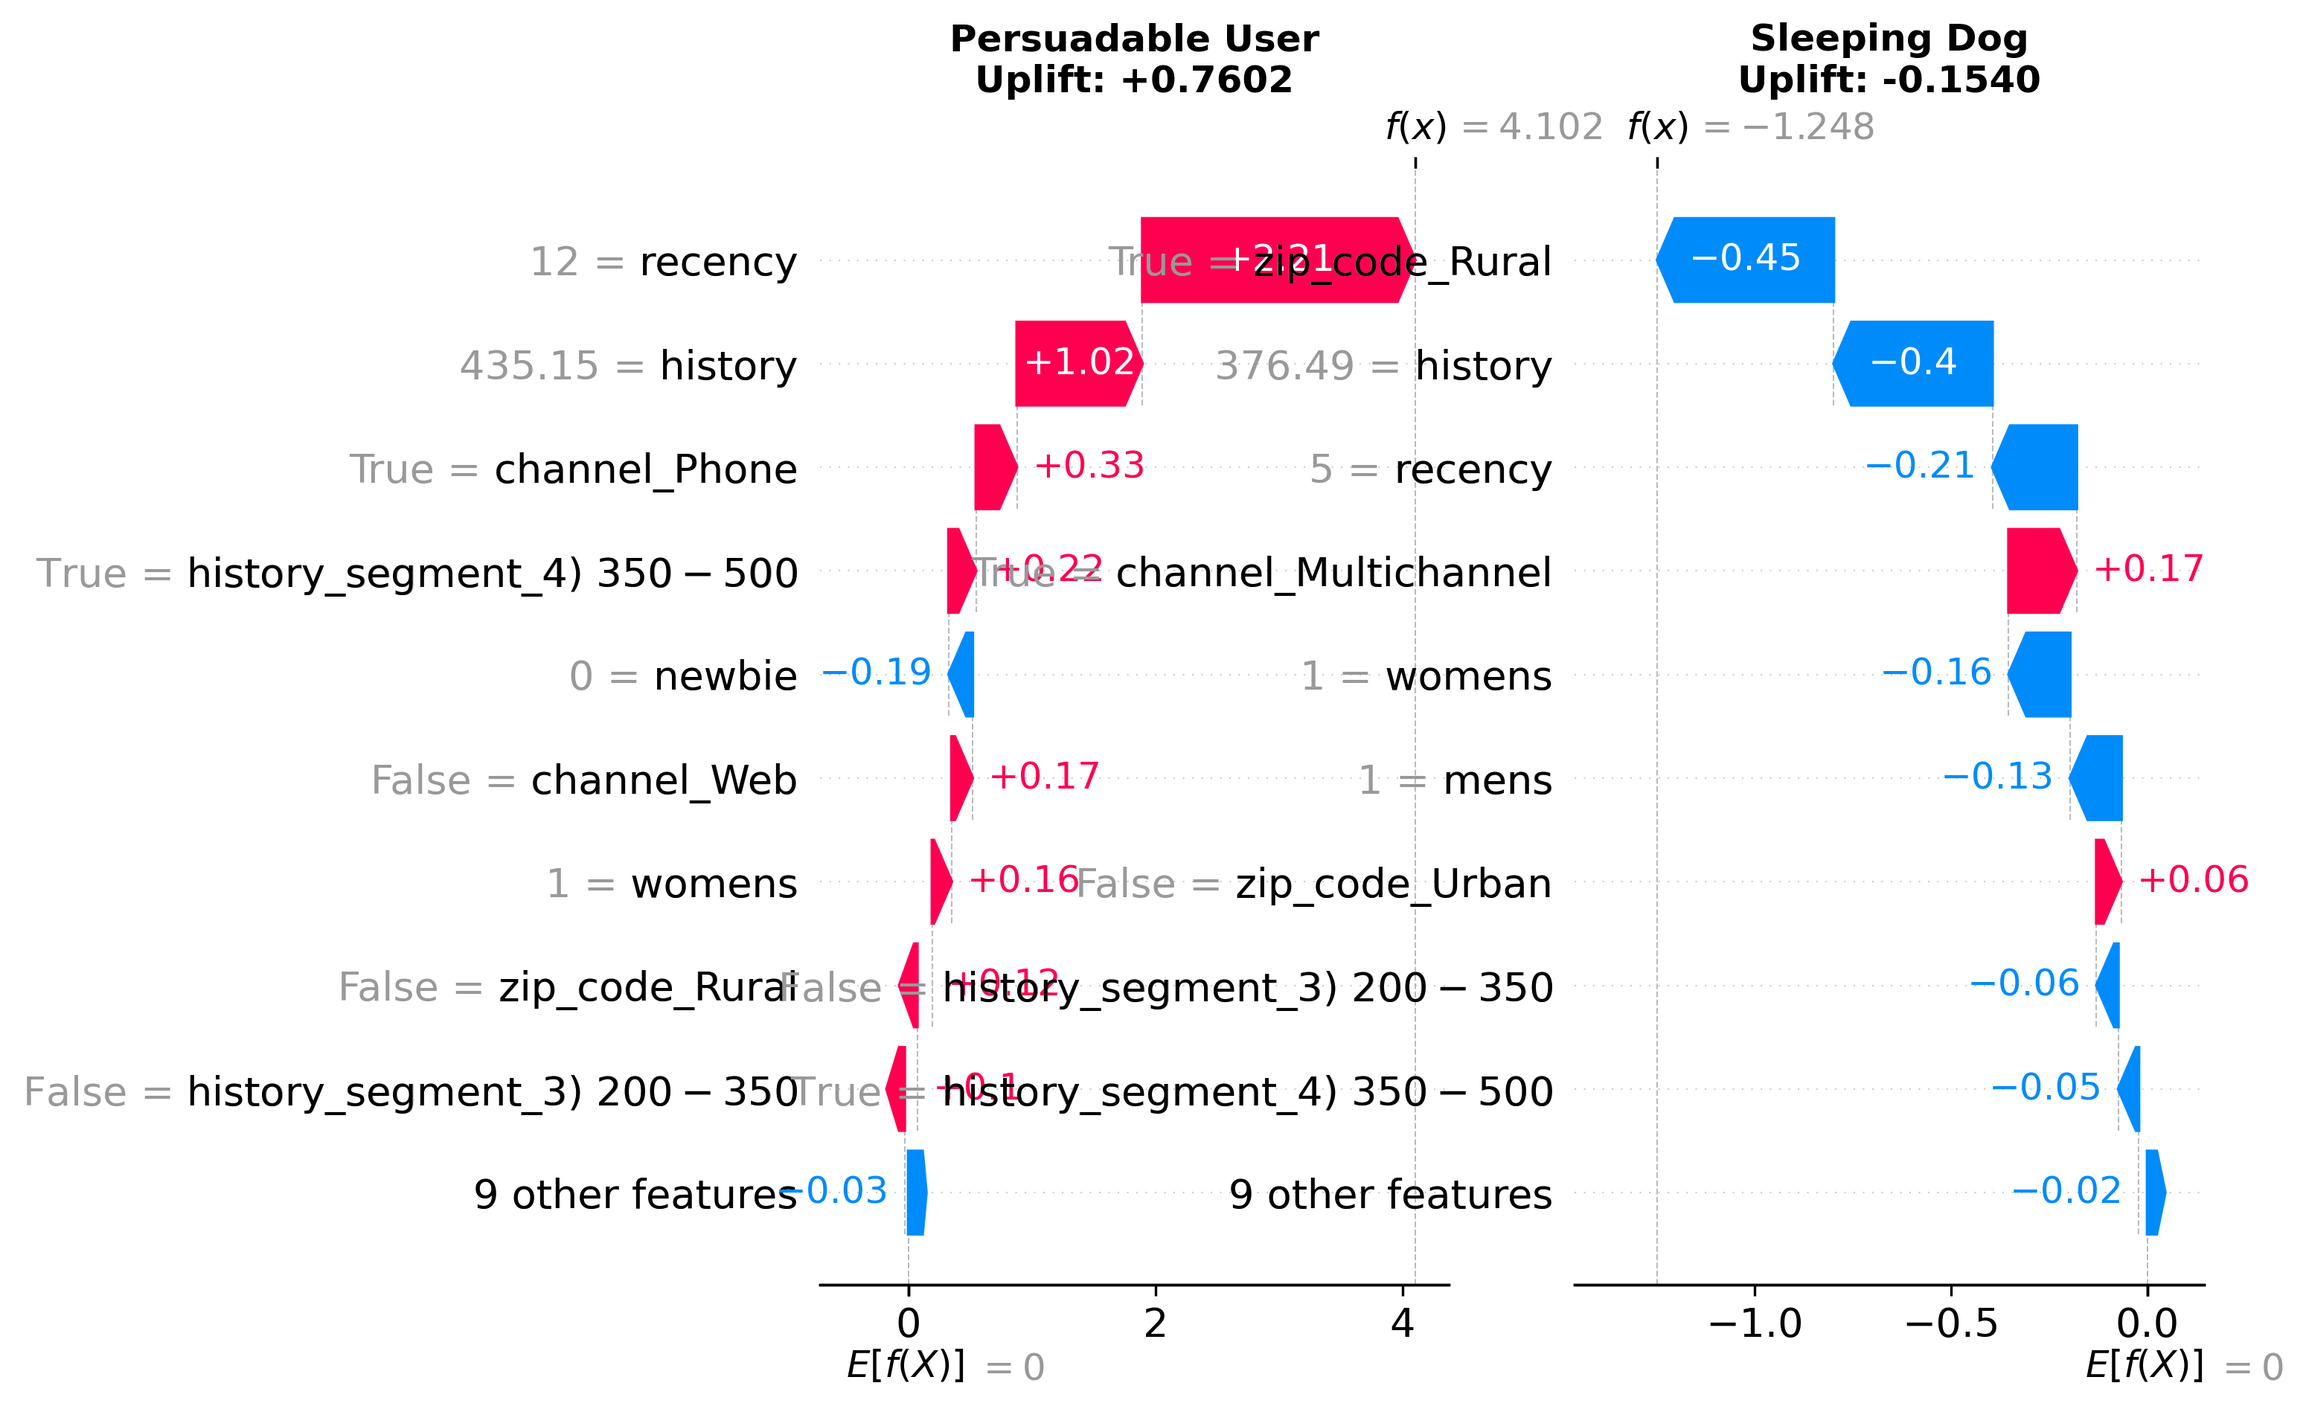
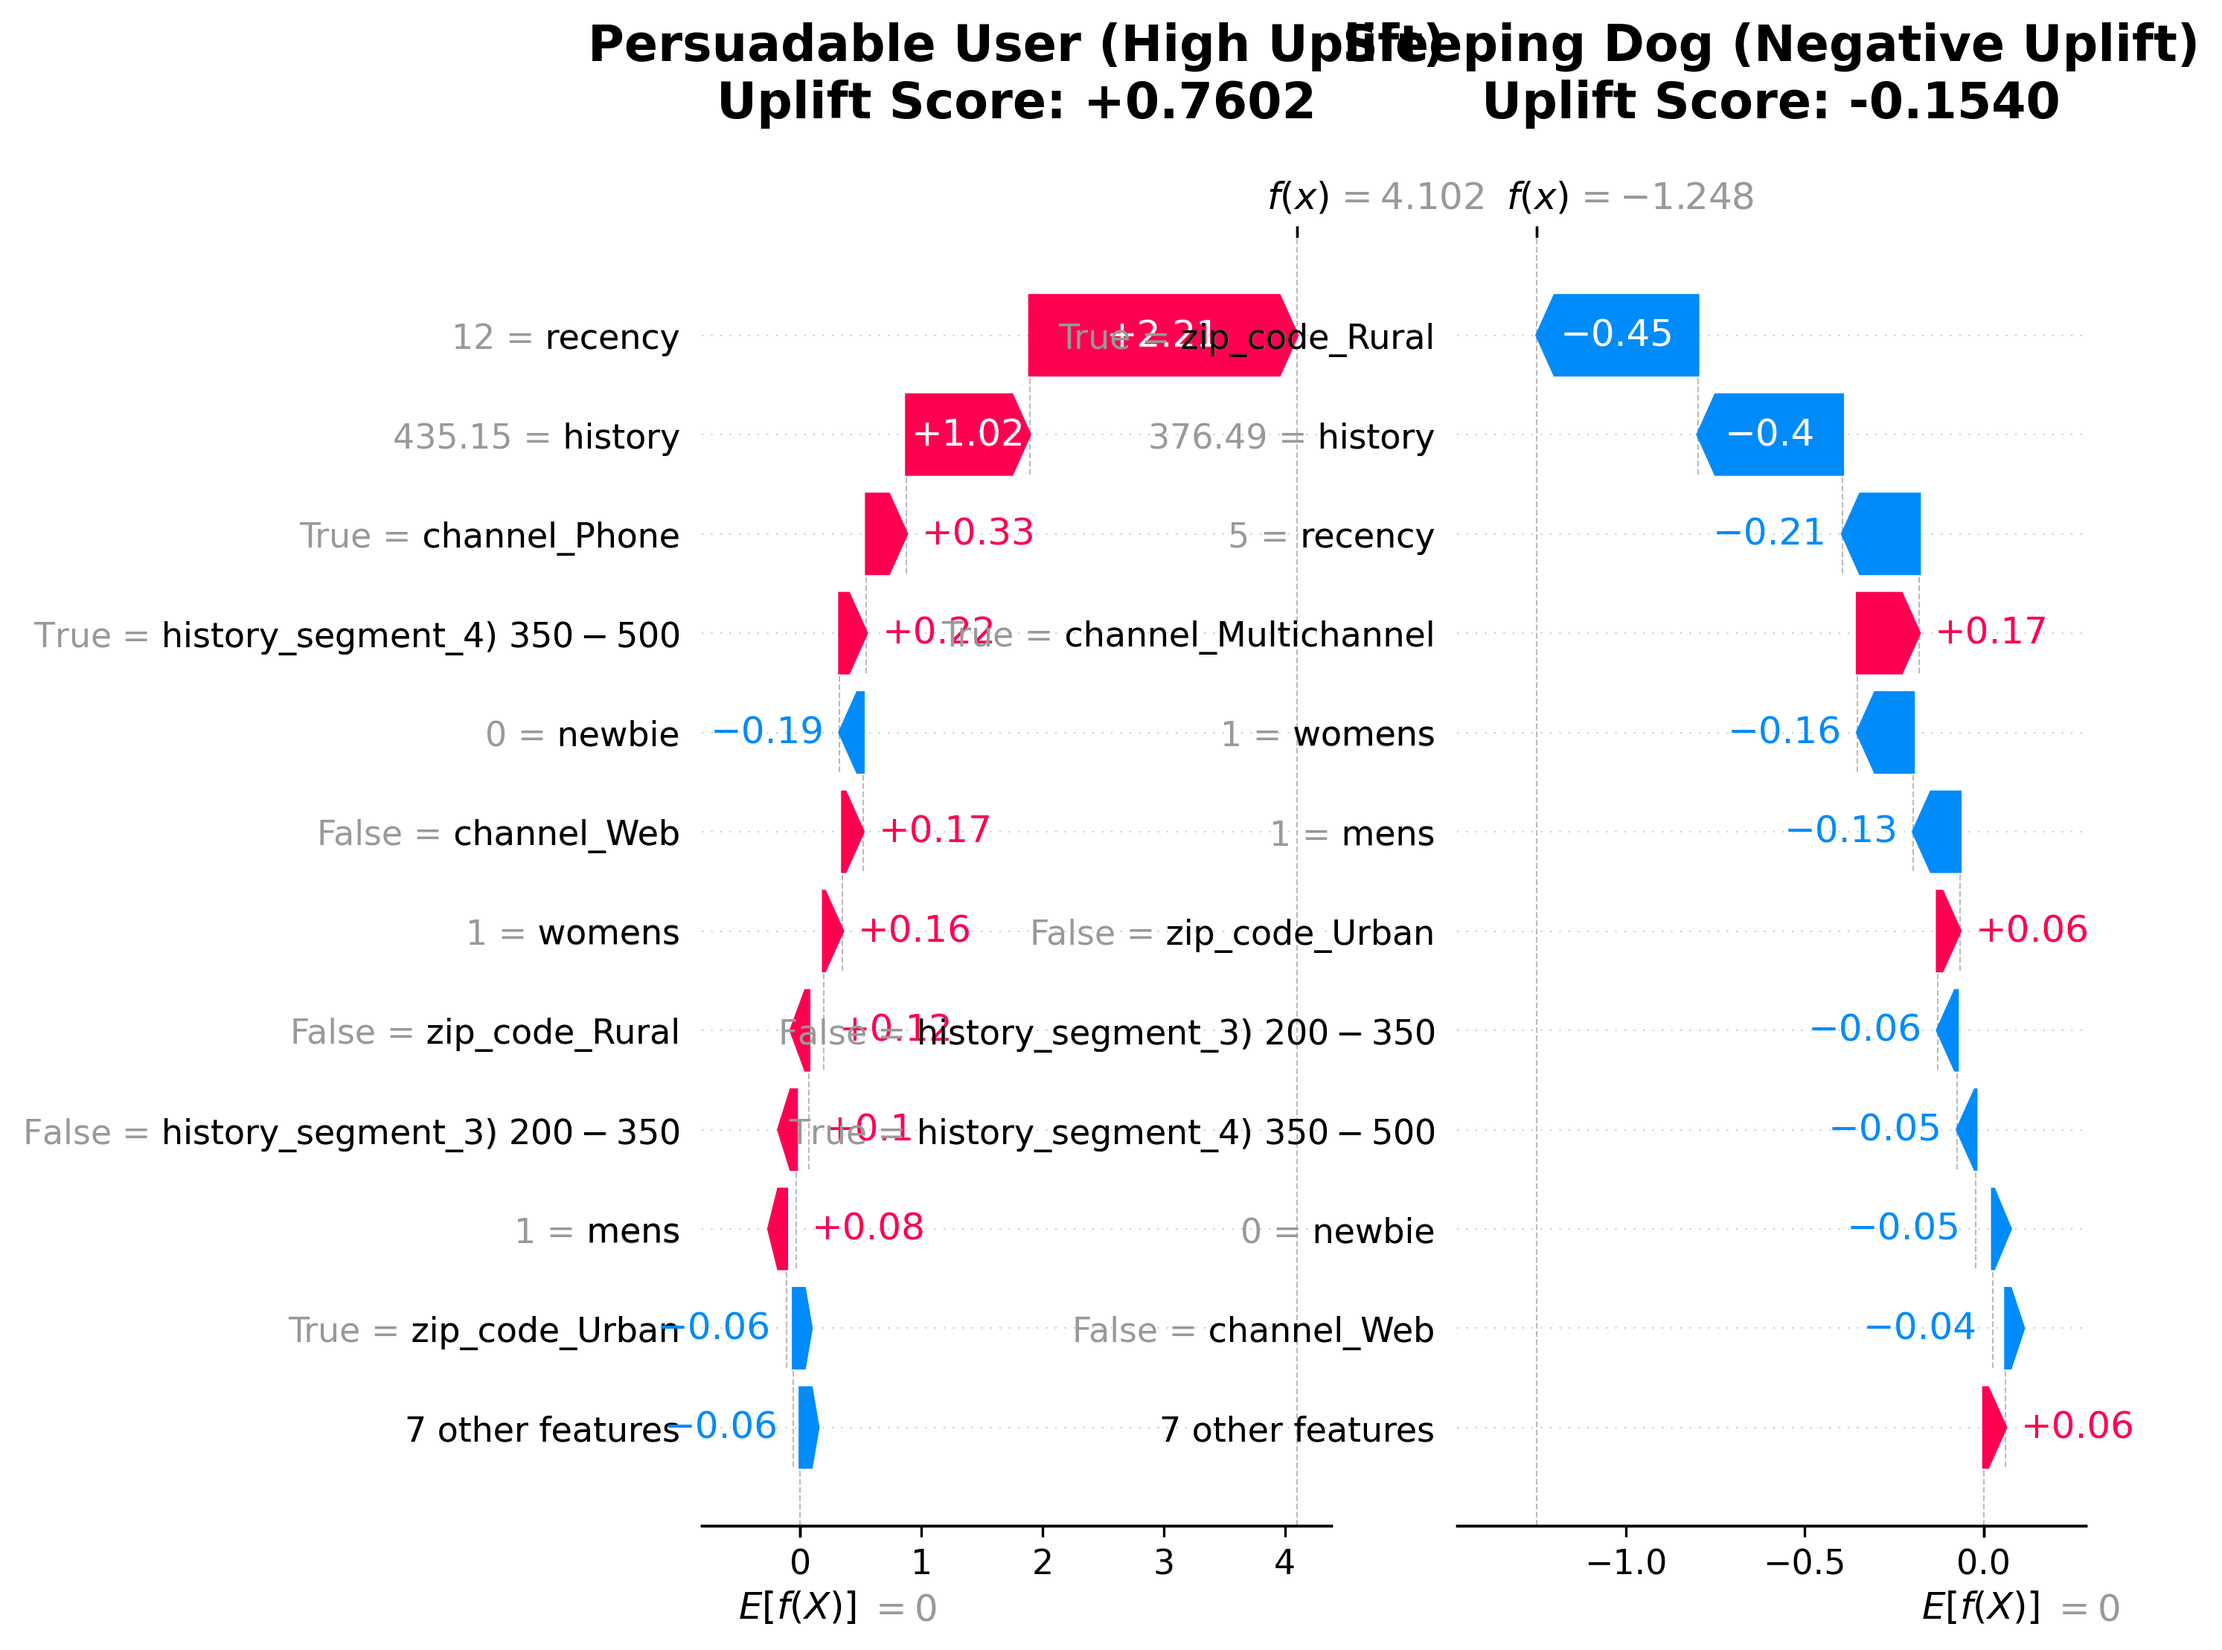
Improve readability of SHAP individual explanations visualization (larger fonts and figure)

diff --git a/explainability_shap.py b/explainability_shap.py
@@ -137,8 +137,11 @@ print(f"   Uplift Score: {sleeping_dog_uplift:+.4f}")
 print(f"   P(control): {p_control[sleeping_dog_idx]:.4f}")
 print(f"   P(treatment): {p_treated[sleeping_dog_idx]:.4f}")
 
-# Waterfall plots for individual explanations
-fig, axes = plt.subplots(1, 2, figsize=(16, 6))
+# Waterfall plots for individual explanations - larger and more readable
+fig, axes = plt.subplots(1, 2, figsize=(20, 10))
+
+# Increase font sizes globally for this plot
+plt.rcParams.update({'font.size': 12})
 
 # Persuadable user explanation
 plt.sca(axes[0])
@@ -150,10 +153,11 @@ shap.waterfall_plot(
         feature_names=feature_names
     ),
     show=False,
-    max_display=10
+    max_display=12
 )
-axes[0].set_title(f'Persuadable User\nUplift: {most_persuadable_uplift:+.4f}', 
-                  fontsize=12, fontweight='bold')
+axes[0].set_title(f'Persuadable User (High Uplift)\nUplift Score: {most_persuadable_uplift:+.4f}', 
+                  fontsize=16, fontweight='bold', pad=20)
+axes[0].tick_params(axis='both', which='major', labelsize=11)
 
 # Sleeping dog explanation
 plt.sca(axes[1])
@@ -165,15 +169,19 @@ shap.waterfall_plot(
         feature_names=feature_names
     ),
     show=False,
-    max_display=10
+    max_display=12
 )
-axes[1].set_title(f'Sleeping Dog\nUplift: {sleeping_dog_uplift:+.4f}', 
-                  fontsize=12, fontweight='bold')
+axes[1].set_title(f'Sleeping Dog (Negative Uplift)\nUplift Score: {sleeping_dog_uplift:+.4f}', 
+                  fontsize=16, fontweight='bold', pad=20)
+axes[1].tick_params(axis='both', which='major', labelsize=11)
 
-plt.tight_layout()
+plt.tight_layout(pad=3.0)
 plt.savefig('shap_individual_explanations.png', dpi=300, bbox_inches='tight')
 print("✅ Saved: shap_individual_explanations.png")
 plt.close()
+
+# Reset font size to default
+plt.rcParams.update({'font.size': 10})
 
 # ==================== 6. FEATURE INTERACTIONS ====================
 print("\n" + "="*80)
